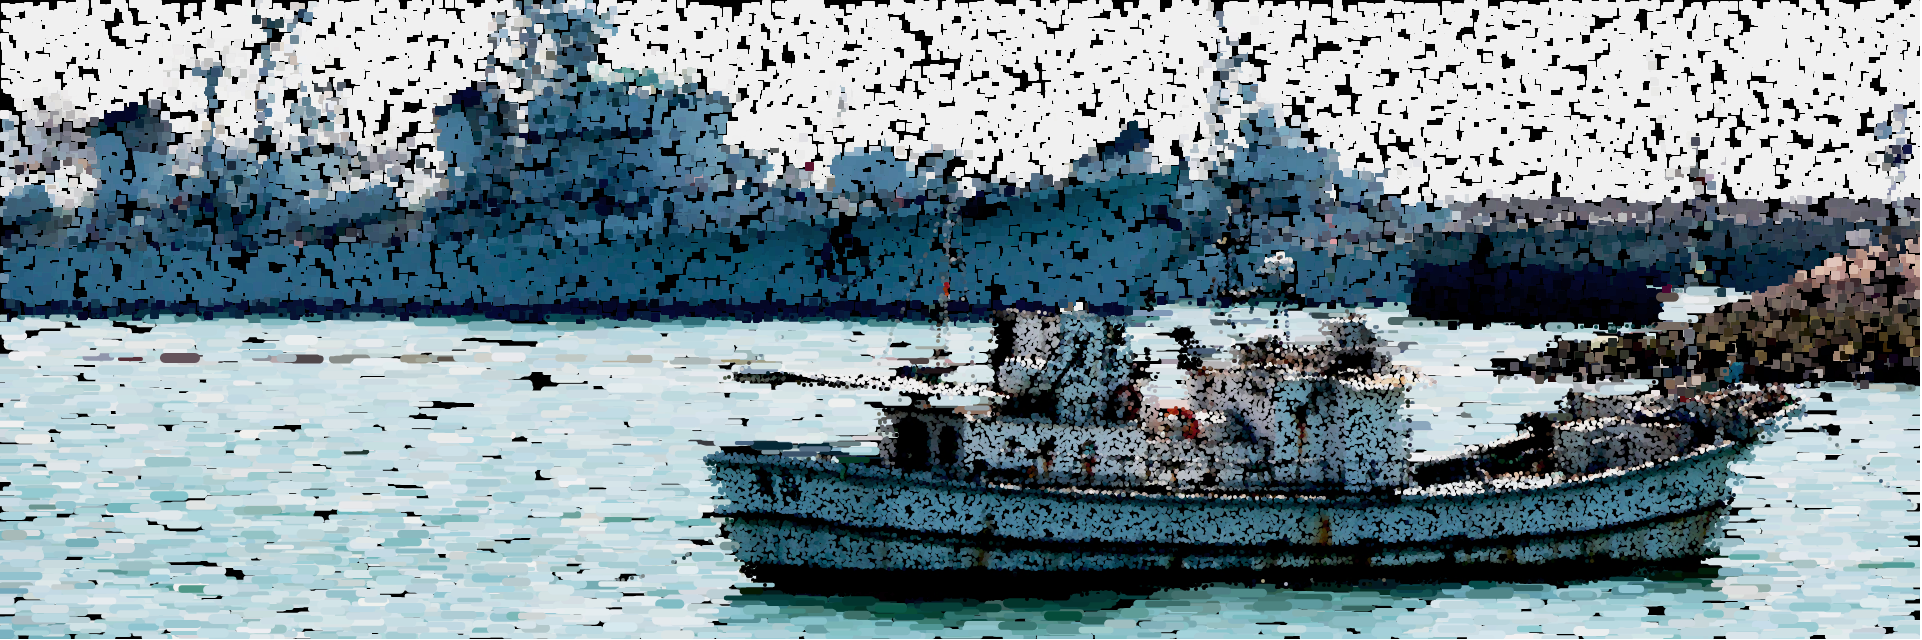
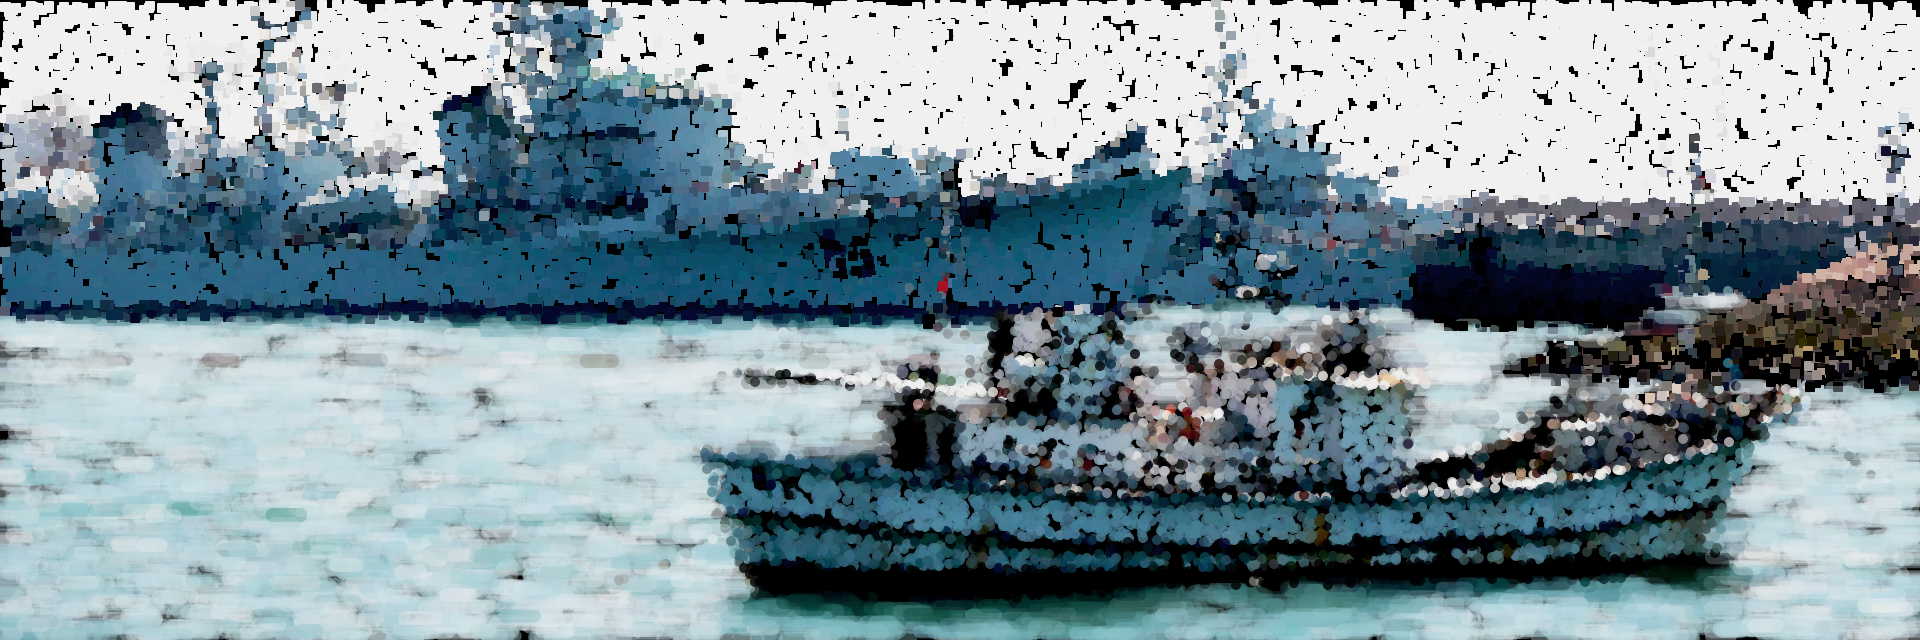
Touched up code

diff --git a/sketch.js b/sketch.js
@@ -3,9 +3,9 @@ let maskImg=null;
 let renderCounter=0;
 
 // change these three lines as appropiate
-let sourceFile = "input_1.jpg";
-let maskFile   = "mask_1.png";
-let outputFile = "output_1.png";
+let sourceFile = "input_3.jpg";
+let maskFile   = "mask_3.png";
+let outputFile = "output_3.png";
 
 angleMode(DEGREES)
 
@@ -21,12 +21,13 @@ function setup () {
   imageMode(CENTER);
   noStroke();
   background(0);
+
   sourceImg.loadPixels();
   maskImg.loadPixels();
 }
 
 function draw () {
-  for(let i=0;i < 8000;i++) {
+  for(let i=0;i < 4000;i++) {
     let x = floor(random(sourceImg.width));
     let y = floor(random(sourceImg.height));
     let pix = sourceImg.get(x, y);
@@ -35,15 +36,15 @@ function draw () {
     fill(pix);
 
     if(mask[0] < 5 && i < 3500 ){ //Black, background
-      let pointSize = 8;
+      let pointSize = 10;
       strokeWeight(0)
       stroke(0)
       rect(x, y, pointSize, pointSize,1);
     }
     else if(mask[0] > 100 && mask[0] < 200) { //light Grey, Sky
-      let pointSize = 7;
+      let pointSize = 10;
       strokeWeight(0);
-      fill(pix[0], pix[1], pix[2], 255)
+      fill(pix[0], pix[1] - 0, pix[2], 200)
       ellipse(x, y, pointSize, pointSize)
     }
     else if(mask[0] > 5 && mask[0] < 100) { //Dark Grey, Foreground
@@ -51,10 +52,13 @@ function draw () {
       strokeWeight(0);
       rect(x, y, pointSize, pointSize,2)
     }
-    else if(mask[0] > 200 && i < 1500){ //White, water
-      let pointSize = random(4, 10);
-      stroke(pix[0], pix[1], pix[2])
-      strokeWeight(pointSize)
+    else if(mask[0] > 200 && i < 2000){ //White, water
+      let pointSize = random(2);
+
+      for (let ii = 0; ii < 255; ii++) { //drawing transparent edges
+        stroke(pix[0], pix[1], pix[2], 350 - ii);
+        strokeWeight(pointSize + (ii / 20))
+      }
         line(x - random(5,20), y, x + random(5,20), y)
     }
   }

diff --git a/README.md b/README.md
@@ -1,37 +1,42 @@
-if(mask[0] < 5 && i < 3500 ){ //Black, background
-  let pointSize = 8;
-  strokeWeight(0)
-  stroke(0)
-  rect(x, y, pointSize, pointSize,1);
-}
-else if(mask[0] > 100 && mask[0] < 200) { //light Grey, Sky
-  let pointSize = 7;
-  strokeWeight(0);
-  fill(pix[0], pix[1], pix[2], 255)
-  ellipse(x, y, pointSize, pointSize)
-}
-else if(mask[0] > 5 && mask[0] < 100) { //Dark Grey, Foreground
-  let pointSize = 4;
-  strokeWeight(0);
-  rect(x, y, pointSize, pointSize,2)
-}
-else if(mask[0] > 200 && i < 1500){ //White, water
-  let pointSize = random(4, 10);
-  stroke(pix[0], pix[1], pix[2])
-  strokeWeight(pointSize)
-    line(x - random(5,20), y, x + random(5,20), y)
-}
+  if(mask[0] < 5 && i < 3500 ){ //Black, background
+    let pointSize = 10;
+    strokeWeight(0)
+    stroke(0)
+    rect(x, y, pointSize, pointSize,1);
+  }
+  else if(mask[0] > 100 && mask[0] < 200) { //light Grey, Sky
+    let pointSize = 10;
+    strokeWeight(0);
+    fill(pix[0], pix[1] - 0, pix[2], 200)
+    ellipse(x, y, pointSize, pointSize)
+  }
+  else if(mask[0] > 5 && mask[0] < 100) { //Dark Grey, Foreground
+    let pointSize = 4;
+    strokeWeight(0);
+    rect(x, y, pointSize, pointSize,2)
+  }
+  else if(mask[0] > 200 && i < 2000){ //White, water
+    let pointSize = random(2);
+
+    for (let ii = 0; ii < 255; ii++) { //drawing transparent edges
+      stroke(pix[0], pix[1], pix[2], 350 - ii);
+      strokeWeight(pointSize + (ii / 20))
+    }
+      line(x - random(5,20), y, x + random(5,20), y)
+  }
+
 
 Fixes / Cleanup
 
-  - Cleaned up code, now only runs 8000 times rather than 15000
+  - Decreased number of objects drawn
 
 Added:
 
-  + Fourth mask, Masks now include, Foreground, background, sky, and water
-  + Started code for adjusting transparency of water
+  + Fine tuned some variables
+  + Added soft edges and water transparency
 
 Issues / progress:
 
   - Water mask bleeds over other masks
-  - water looks flat, might add transparency to edges to soften edges make it look more fluid.
+  - Image 2's mask uses wrong gray mask, doesn't work with new code.
+  - Need to redraw / update mask for images 2 and 3 
